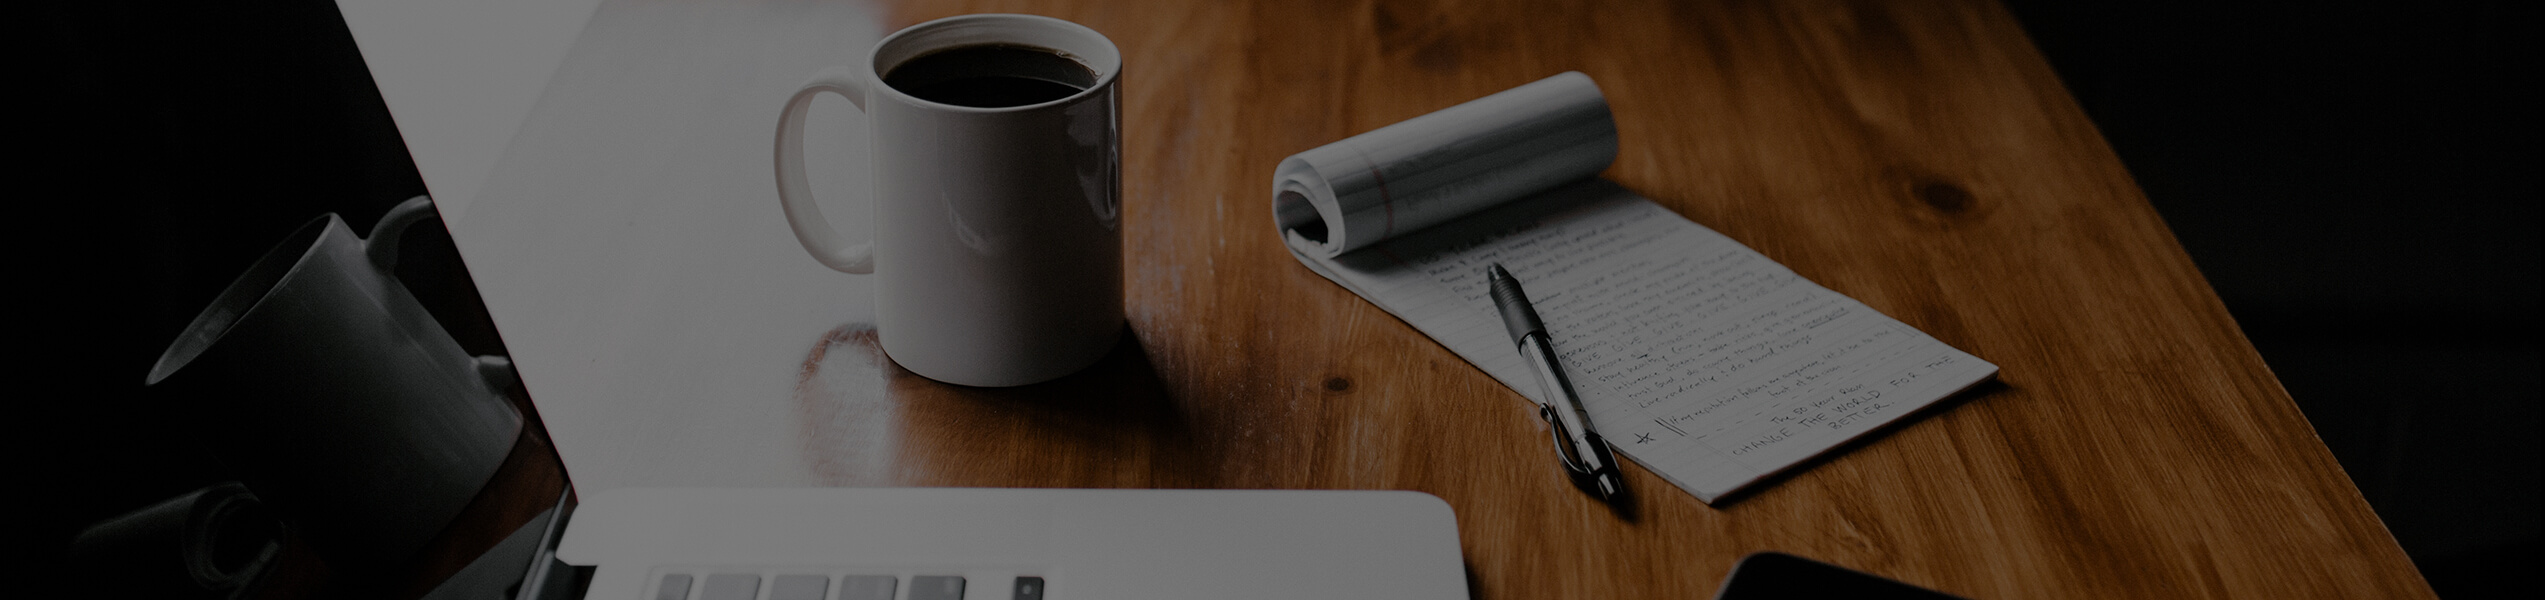
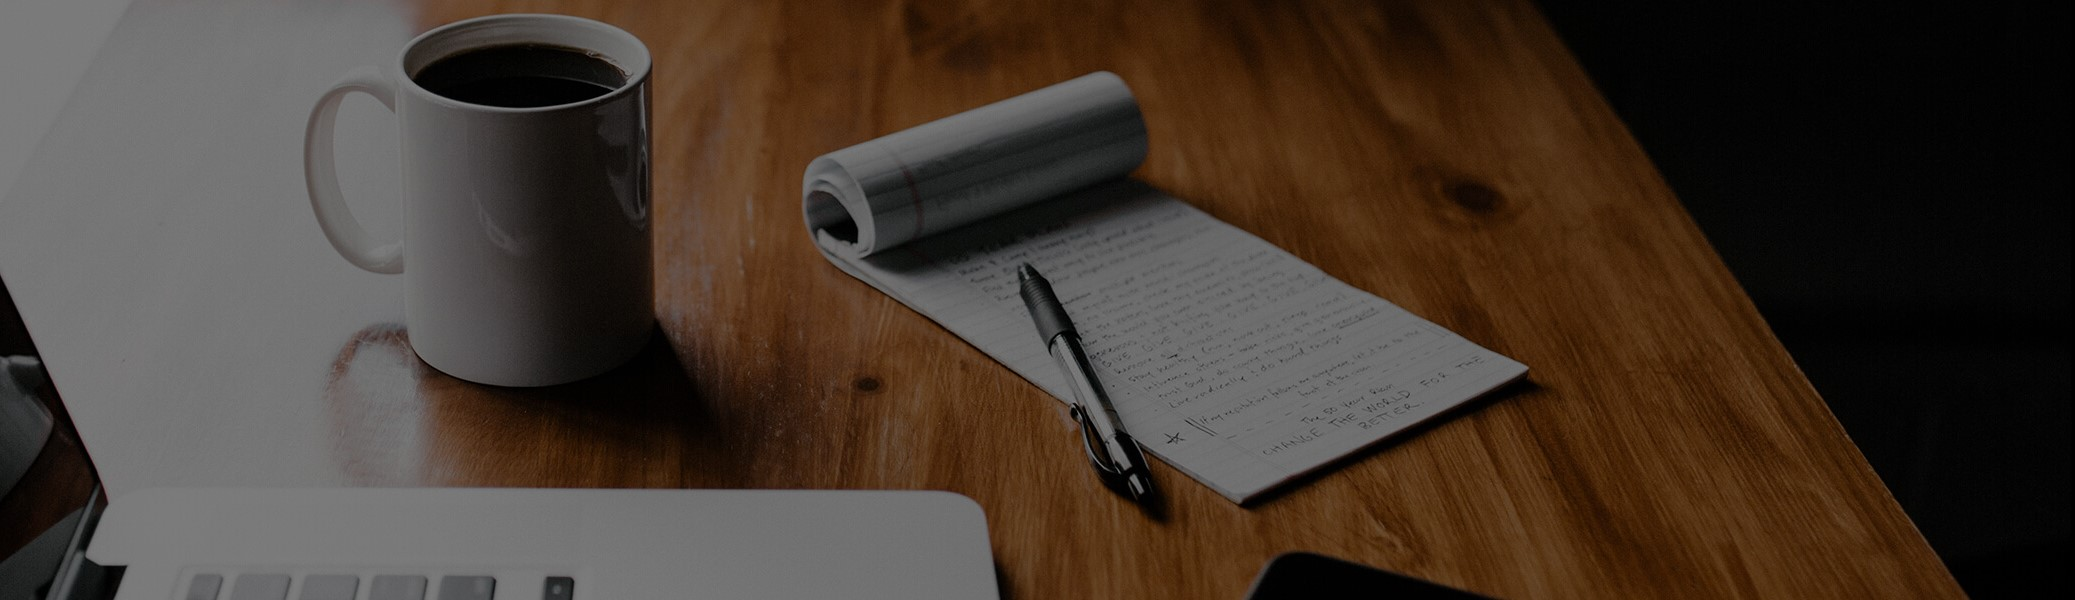
Changed jumbotron photo

diff --git a/index.html b/index.html
@@ -92,36 +92,7 @@
         </div> <!-- navigation -->
 
         <div id="parallax" class="header-content d-flex align-items-center">
-            <div class="header-shape shape-one layer" data-depth="0.10">
-                <img src="assets/images/banner/shape/shape-1.png" alt="Shape">
-            </div> <!-- header shape -->
-            <div class="header-shape shape-tow layer" data-depth="0.30">
-                <img src="assets/images/banner/shape/shape-2.png" alt="Shape">
-            </div> <!-- header shape -->
-            <div class="header-shape shape-three layer" data-depth="0.40">
-                <img src="assets/images/banner/shape/shape-3.png" alt="Shape">
-            </div> <!-- header shape -->
-            <div class="header-shape shape-fore layer" data-depth="0.60">
-                <img src="assets/images/banner/shape/shape-2.png" alt="Shape">
-            </div> <!-- header shape -->
-            <div class="header-shape shape-five layer" data-depth="0.20">
-                <img src="assets/images/banner/shape/shape-1.png" alt="Shape">
-            </div> <!-- header shape -->
-            <div class="header-shape shape-six layer" data-depth="0.15">
-                <img src="assets/images/banner/shape/shape-4.png" alt="Shape">
-            </div> <!-- header shape -->
-            <div class="header-shape shape-seven layer" data-depth="0.50">
-                <img src="assets/images/banner/shape/shape-5.png" alt="Shape">
-            </div> <!-- header shape -->
-            <div class="header-shape shape-eight layer" data-depth="0.40">
-                <img src="assets/images/banner/shape/shape-3.png" alt="Shape">
-            </div> <!-- header shape -->
-            <div class="header-shape shape-nine layer" data-depth="0.20">
-                <img src="assets/images/banner/shape/shape-6.png" alt="Shape">
-            </div> <!-- header shape -->
-            <div class="header-shape shape-ten layer" data-depth="0.30">
-                <img src="assets/images/banner/shape/shape-3.png" alt="Shape">
-            </div> <!-- header shape -->
+
             <div class="container">
                 <div class="row align-items-center">
                     <div class="col-xl-5 col-lg-6">
@@ -133,9 +104,7 @@
                         </div> <!-- header content right -->
                     </div>
                     <div class="col-lg-6 offset-xl-1">
-                        <div class="header-image d-none d-lg-block">
-                            <img src="assets/images/banner/hero.png" alt="hero">
-                        </div> <!-- header image -->
+                        <!-- <div class="header-image d-none d-lg-block"></div> header image -->
                     </div>
                 </div> <!-- row -->
             </div> <!-- container -->

diff --git a/assets/css/style.css b/assets/css/style.css
@@ -451,6 +451,16 @@ p {
 /*===========================
     2.HEADER css 
 ===========================*/
+
+.header-content {
+  background-image: url('../images/call-to-action.jpg');
+  background-repeat: no-repeat;
+  background-size: cover;
+}
+.header-content .title{
+  color: white;
+}
+
 .navigation {
   -webkit-box-shadow: 0px 0px 29px 0px rgba(134, 134, 134, 0.25);
   -moz-box-shadow: 0px 0px 29px 0px rgba(134, 134, 134, 0.25);
@@ -714,10 +724,15 @@ p {
     padding-bottom: 40px; }
 
 .header-image {
-  max-width: 430px;
+  max-width: 630px;
   margin: 0 auto;
-  position: relative; }
-  .header-image::before {
+  height: 80vh;
+  position: relative; 
+  background-image: url('../images/ceo.jpg');
+  background-repeat: no-repeat;
+  background-size: cover; 
+}
+  /* .header-image::before {
     position: absolute;
     content: '';
     width: 100%;
@@ -742,7 +757,7 @@ p {
     z-index: 11; }
   .header-image img {
     position: relative;
-    z-index: 5; }
+    z-index: 5; } */
 
 .header-social {
   position: absolute;
